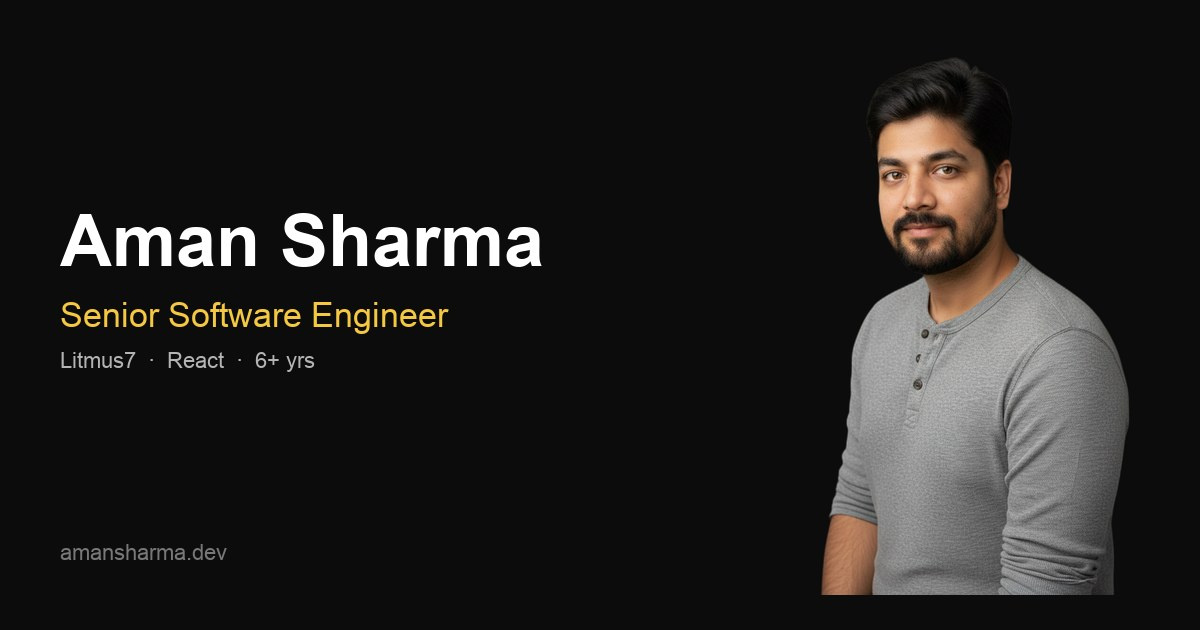
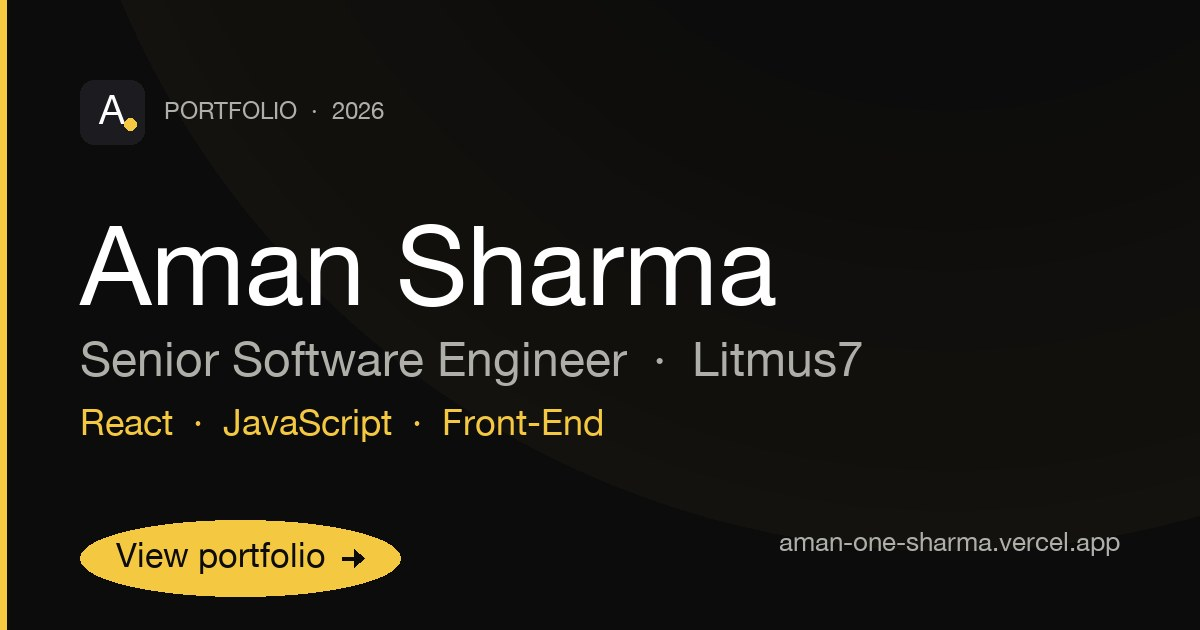
Fix OG audit issues: longer title, longer description, CTA in image
- Title: 38 → 58 chars ("· React & Front-End" suffix)
- Description: 102 → 137 chars (added "Based in Bangalore — open to work.")
- og-card.jpg: redesigned with "View portfolio →" yellow CTA pill,
  brand badge, role, skills row, deployed URL, yellow accent stripe
- og:image:alt updated to reflect the CTA

diff --git a/index.html b/index.html
@@ -3,11 +3,11 @@
   <head>
     <meta charset="UTF-8" />
     <meta name="viewport" content="width=device-width, initial-scale=1.0" />
-    <title>Aman Sharma — Senior Software Engineer</title>
+    <title>Aman Sharma — Senior Software Engineer · React &amp; Front-End</title>
 
     <meta
       name="description"
-      content="Aman Sharma — Senior Software Engineer at Litmus7 with 6+ years building React, JavaScript, and responsive web apps. Based in Sarjapur, Bangalore."
+      content="Senior Software Engineer at Litmus7 with 6+ years building React, JavaScript, and responsive web apps. Based in Bangalore — open to work."
     />
     <meta name="author" content="Aman Sharma" />
     <meta
@@ -19,11 +19,11 @@
     <meta property="og:type" content="website" />
     <meta
       property="og:title"
-      content="Aman Sharma — Senior Software Engineer"
+      content="Aman Sharma — Senior Software Engineer · React &amp; Front-End"
     />
     <meta
       property="og:description"
-      content="Senior Software Engineer at Litmus7 with 6+ years building React, JavaScript, and responsive web apps."
+      content="Senior Software Engineer at Litmus7 with 6+ years building React, JavaScript, and responsive web apps. Based in Bangalore — open to work."
     />
     <meta property="og:url" content="https://aman-one-sharma.vercel.app/" />
     <meta property="og:image" content="https://aman-one-sharma.vercel.app/assets/og-card.jpg" />
@@ -31,18 +31,18 @@
     <meta property="og:image:height" content="630" />
     <meta
       property="og:image:alt"
-      content="Aman Sharma — Senior Software Engineer at Litmus7"
+      content="Aman Sharma — Senior Software Engineer at Litmus7. View portfolio →"
     />
     <meta property="og:locale" content="en_US" />
 
     <meta name="twitter:card" content="summary_large_image" />
     <meta
       name="twitter:title"
-      content="Aman Sharma — Senior Software Engineer"
+      content="Aman Sharma — Senior Software Engineer · React &amp; Front-End"
     />
     <meta
       name="twitter:description"
-      content="Senior Software Engineer at Litmus7 with 6+ years building React, JavaScript, and responsive web apps."
+      content="Senior Software Engineer at Litmus7 with 6+ years building React, JavaScript, and responsive web apps. Based in Bangalore — open to work."
     />
     <meta name="twitter:image" content="https://aman-one-sharma.vercel.app/assets/og-card.jpg" />
 
